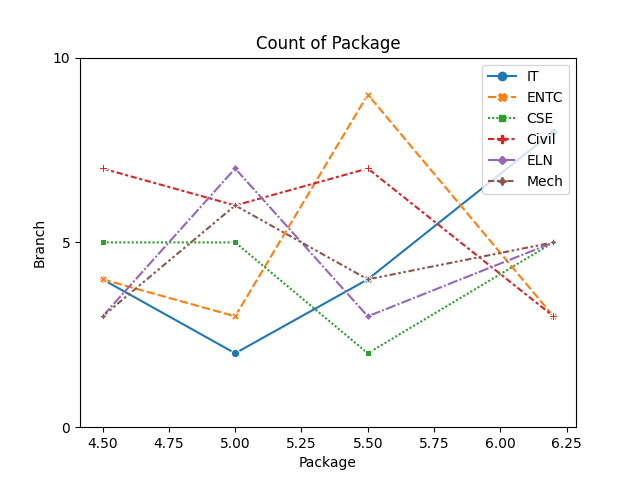
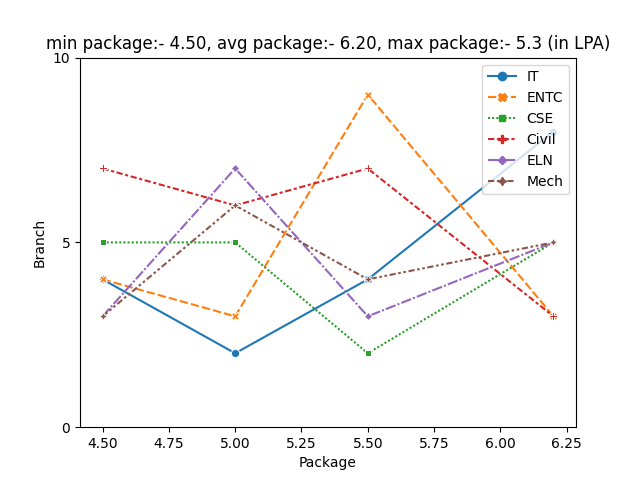
new changes

Changed region(s): [[0.0625, 0.0625, 0.7812, 0.125], [0.8125, 0.0625, 0.9688, 0.125]]

diff --git a/department_analysis.py b/department_analysis.py
@@ -150,6 +150,7 @@ class DepartmentAnalysis(Screen):
         for i in my_cursor:
                 dat.append([i[0],i[1],i[2]])
         df=pd.DataFrame(dat,columns=['package','count','year'])
+        
 
         sns.lineplot(x='package',y='count',hue = 'year',data=df,markers=True,style='year')
         plt.title("Count of Package")
@@ -157,7 +158,7 @@ class DepartmentAnalysis(Screen):
         plt.xlabel("Package")
         plt.ylabel("Count")
         plt.legend()
-        # plt.show()
+        #plt.show()
         plt.savefig("Graphs//dept_4.png")
         plt.close('all')
 

diff --git a/institute_analysis.py b/institute_analysis.py
@@ -120,7 +120,9 @@ class InstituteAnalysis(Screen):
             dat.append([i[0],i[1],branch[i[2]]])
         df=pd.DataFrame(dat,columns=['package','count','branch'])
 
+        
         sns.lineplot(x='package',y='count',hue = 'branch',data=df,markers=True,style='branch')
+        # plt.title(f"min package:- {min(df['package'])}, avg package:- {max(df['package'])}, max package:- {df['package'].mean()} (in LPA)")
         plt.title("Count of Package")
         plt.yticks(np.arange(max(df['count'])+5,step=5))
         plt.xlabel("Package")
